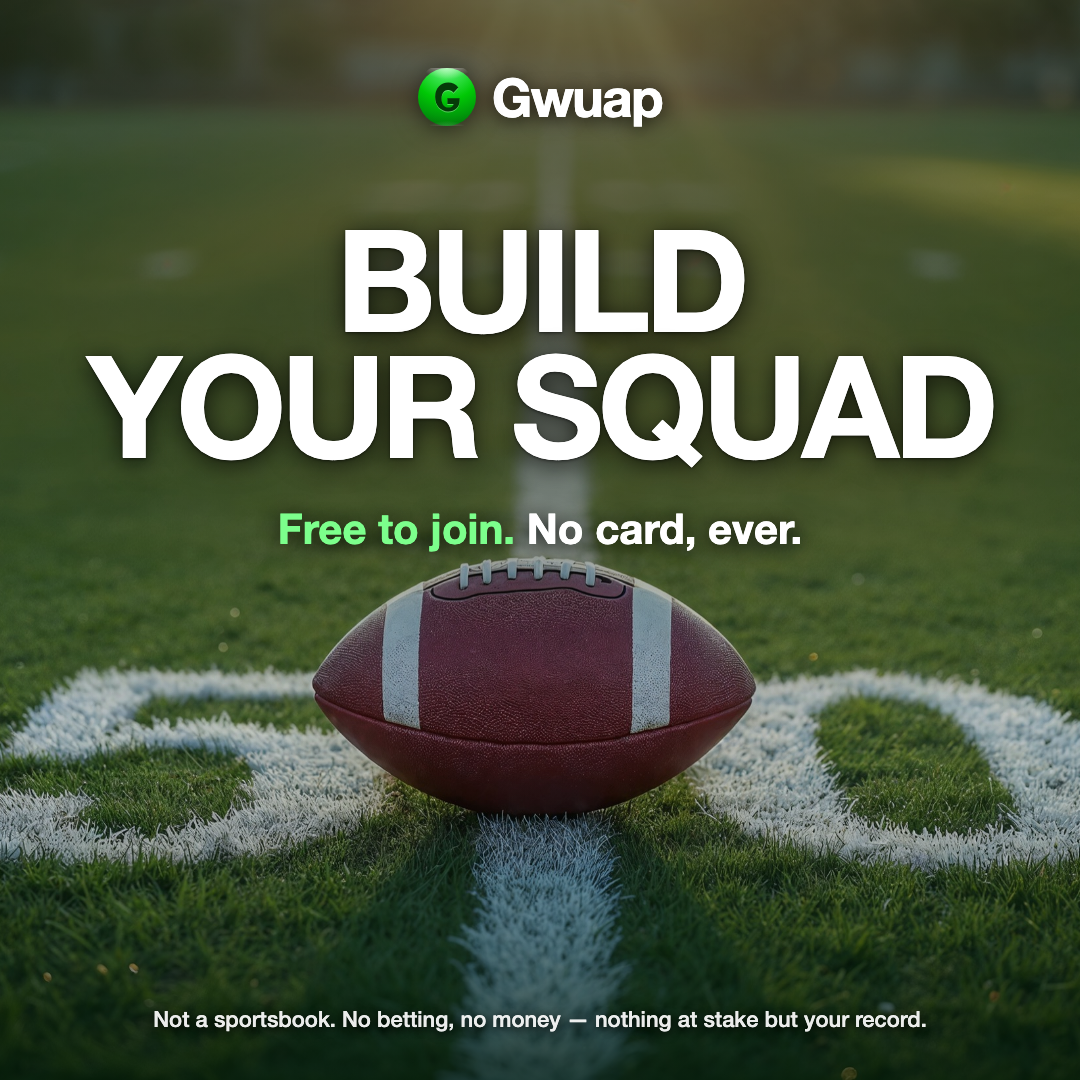
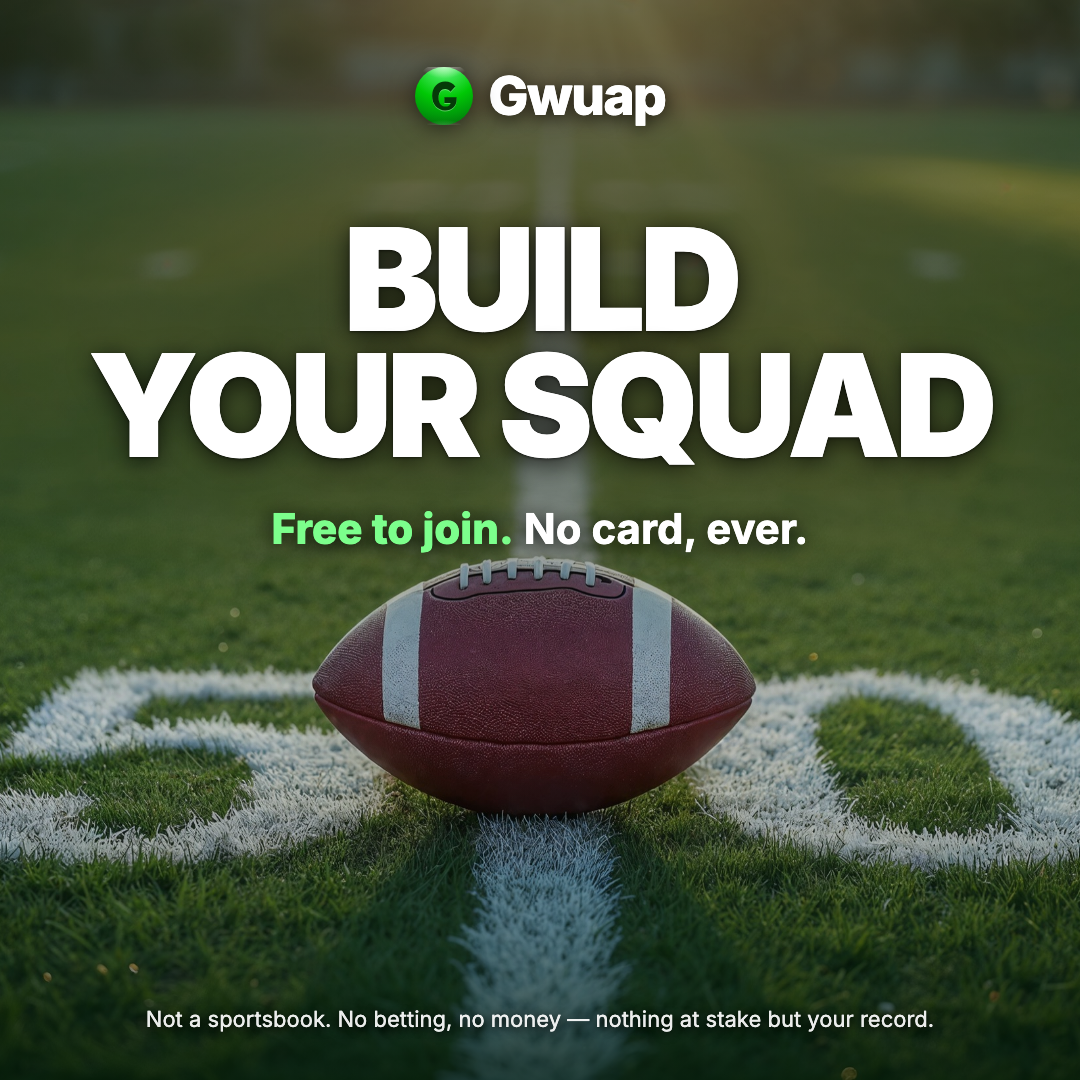
One sport, not five: narrow the targeting to match the creative
The obvious next move is a creative per category. The arithmetic says
not yet: at $1.37/click, $20/day buys ~15 clicks a day — 100 clicks in a
week undivided, or 3 clicks a day each across five sport ad groups,
needing a month and ~$660 before any one of them reads. Five creatives
is also five times the review surface on an account already rejected
twice, and five more stock licences to check.

So the targeting drops to football-weighted, because the creative is
football and an r/soccer user shown a gridiron is a worse match than not
reaching them. The broader sport list moves to a phase 2 that happens
once a campaign has actually cleared review and delivered.

make.py now takes the photo per variant, so phase 2 is one row per sport
rather than a rewrite.

Claude-Session: https://claude.ai/code/session_01NdCCLMbPGMkRizCq46GUey

diff --git a/ads/field.tmpl.html b/ads/field.tmpl.html
@@ -47,7 +47,7 @@
 </style>
 
 <div class="stage">
-  <img class="photo" src="field.jpg" alt="">
+  <img class="photo" src="{{PHOTO}}" alt="">
   <div class="scrim"></div>
   <div class="brand"><img src="logo.svg" alt=""><span>Gwuap</span></div>
   <div class="wrap">

diff --git a/ads/make.py b/ads/make.py
@@ -13,20 +13,25 @@ CHROME = "/Applications/Google Chrome.app/Contents/MacOS/Google Chrome"
 HERE = pathlib.Path(__file__).parent
 TEMPLATE = (HERE / "field.tmpl.html").read_text()
 
+SUB = "<b>Free to join.</b> No card, ever."
+
+# Phase 2 — a basketball court, a rink, a pitch — is one row each, paired
+# with its own sport's ad group. Shipping football alone first is a budget
+# decision, not a design one: see CAMPAIGN-sports-social-sep.md.
 VARIANTS = [
-    # name, w, h, headline, sub, scale, object-position, headline top
-    ("gw-field-square", 1080, 1080, ["Build", "your squad"],
-     "<b>Free to join.</b> No card, ever.", 1.00, "50% 58%", "20%"),
-    ("gw-field-wide", 1200, 628, ["Build your squad"],
-     "<b>Free to join.</b> No card, ever.", 0.66, "50% 46%", "26%"),
-    ("gw-meet-square", 1080, 1080, ["The group chat", "for sports"],
-     "<b>Free to join.</b> No card, ever.", 0.80, "50% 58%", "20%"),
+    # name, photo, w, h, headline, sub, scale, object-position, headline top
+    ("gw-field-square", "field.jpg", 1080, 1080, ["Build", "your squad"],
+     SUB, 1.00, "50% 58%", "20%"),
+    ("gw-field-wide", "field.jpg", 1200, 628, ["Build your squad"],
+     SUB, 0.66, "50% 46%", "26%"),
+    ("gw-meet-square", "field.jpg", 1080, 1080, ["The group chat", "for sports"],
+     SUB, 0.80, "50% 58%", "20%"),
 ]
 
-for name, w, h, lines, sub, scale, pos, top in VARIANTS:
+for name, photo, w, h, lines, sub, scale, pos, top in VARIANTS:
     html = (TEMPLATE
             .replace("{{W}}", str(w)).replace("{{H}}", str(h))
-            .replace("{{SCALE}}", str(scale)).replace("{{POS}}", pos)
+            .replace("{{SCALE}}", str(scale)).replace("{{POS}}", pos).replace("{{PHOTO}}", photo)
             .replace("{{TOP}}", top)
             .replace("{{HEAD}}", "".join(f"<em>{l}</em>" for l in lines))
             .replace("{{SUB}}", sub))

diff --git a/ads/CAMPAIGN-sports-social-sep.md b/ads/CAMPAIGN-sports-social-sep.md
@@ -63,14 +63,29 @@ way.
 
 ## Targeting
 
-### Communities — sports, general
-r/sports, r/nfl, r/CFB, r/nba, r/CollegeBasketball, r/baseball, r/MLB,
-r/hockey, r/soccer, r/MMA, r/boxing, r/tennis, r/formula1, r/NASCAR, r/golf,
-r/fantasyfootball, r/DynastyFF, r/fantasybball, r/fantasybaseball
+### Communities — football-weighted, because the creative is football
+r/nfl, r/CFB, r/fantasyfootball, r/DynastyFF, r/NFLstatheads, r/sports
+
+Plus the four biggest team subs for whoever is playing that week, swapped
+weekly: r/eagles, r/cowboys, r/49ers, r/steelers (etc.).
 
 ### Interests
-Sports · American Football · Basketball · Baseball · Soccer · Hockey ·
-Combat Sports · Motorsports · Golf · Tennis · Fantasy Sports
+Sports · American Football · Fantasy Sports
+
+### Phase 2 — only after one campaign clears review and delivers
+r/nba, r/CollegeBasketball, r/baseball, r/MLB, r/hockey, r/soccer, r/MMA,
+r/boxing, r/tennis, r/formula1, r/NASCAR, r/golf, and their interest
+categories — each paired with **its own sport's creative**. A basketball
+audience shown a gridiron is a worse match than not reaching them at all.
+
+**Why not all of it now.** At the last campaign's $1.37/click, $20/day buys
+about 15 clicks a day. Undivided, that is 100 clicks in a week for ~$137 — a
+readable sample. Split across five sport-specific ad groups it is 3 clicks a
+day each, needing a month and ~$660 before any one of them means anything.
+Five creatives is also five times the review surface on an account that has
+already been rejected twice, and five more stock licences to verify. Football
+is the largest US sports audience in September anyway; the seasonality is the
+same reason the Polymarket ad we are copying is a football field.
 
 ### Geo / age
 United States, 18+.

diff --git a/BUILD_GUIDE.md b/BUILD_GUIDE.md
@@ -3379,6 +3379,23 @@ is worth testing as its own ad group *after* this account has a campaign
 that has cleared review and delivered — there is currently nothing to
 risk that against.
 
+**One sport, not five.** The obvious next thought is a creative per
+category — a court for r/nba, a rink for r/hockey. The budget says no,
+and the arithmetic is the whole argument: at the last campaign's
+$1.37/click, $20/day buys about 15 clicks a day. Undivided that is 100
+clicks in a week for ~$137, which is a readable sample. Split across five
+sport-specific ad groups it is 3 clicks a day each — a month and ~$660
+before any one of them means anything. Five creatives is also five times
+the review surface on an account already rejected twice, and five more
+stock licences to check.
+
+Football is the largest US sports audience in September regardless, which
+is why the Polymarket ad being copied is a football field. Targeting was
+narrowed to match the creative: an r/soccer user shown a gridiron is a
+worse match than not reaching them. `ads/make.py` takes the photo per
+variant, so phase 2 is one row per sport whenever a campaign has actually
+cleared review and delivered.
+
 **What the campaign actually tests:** whether the rebuilt `/squads`
 converts cold traffic. All 25 clicks from the last campaign landed on
 the old page, so 0-for-22 was never a verdict on the new one. Traffic
